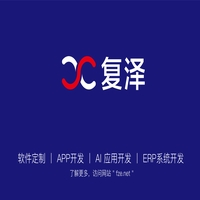
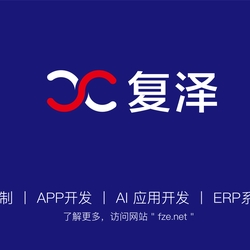
update img.go

Changed region(s): [[0.18, 0.27, 0.87, 0.45], [0.09, 0.75, 1.0, 0.9], [0.0, 0.75, 0.06, 0.84]]

diff --git a/core/infrastructure/util/img.go b/core/infrastructure/util/img.go
@@ -21,8 +21,8 @@ func MakeThumbnail(filename string, width, height int) ([]byte, error) {
 	if err != nil {
 		return nil, err
 	}
-	//dstImg := imaging.Fill(srcImage, 100, 100, imaging.Center, imaging.Lanczos)
-	dstImg := imaging.Resize(img, width, height, imaging.Lanczos)
+	dstImg := imaging.Fill(img, width, height, imaging.Center, imaging.Lanczos)
+	//dstImg := imaging.Resize(img, width, height, imaging.Lanczos)
 	buf := bytes.NewBuffer(nil)
 	err = jpeg.Encode(buf, dstImg, &jpeg.Options{Quality: 100})
 	if err != nil {

diff --git a/core/infrastructure/util/util_test.go b/core/infrastructure/util/util_test.go
@@ -23,7 +23,7 @@ func TestOrValue(t *testing.T) {
 }
 
 func TestResizeImage(t *testing.T) {
-	bytes, err := MakeThumbnail("./resize.png", 200, 200)
+	bytes, err := MakeThumbnail("./resize.png", 250, 250)
 	if err != nil {
 		t.Error(err)
 	}
